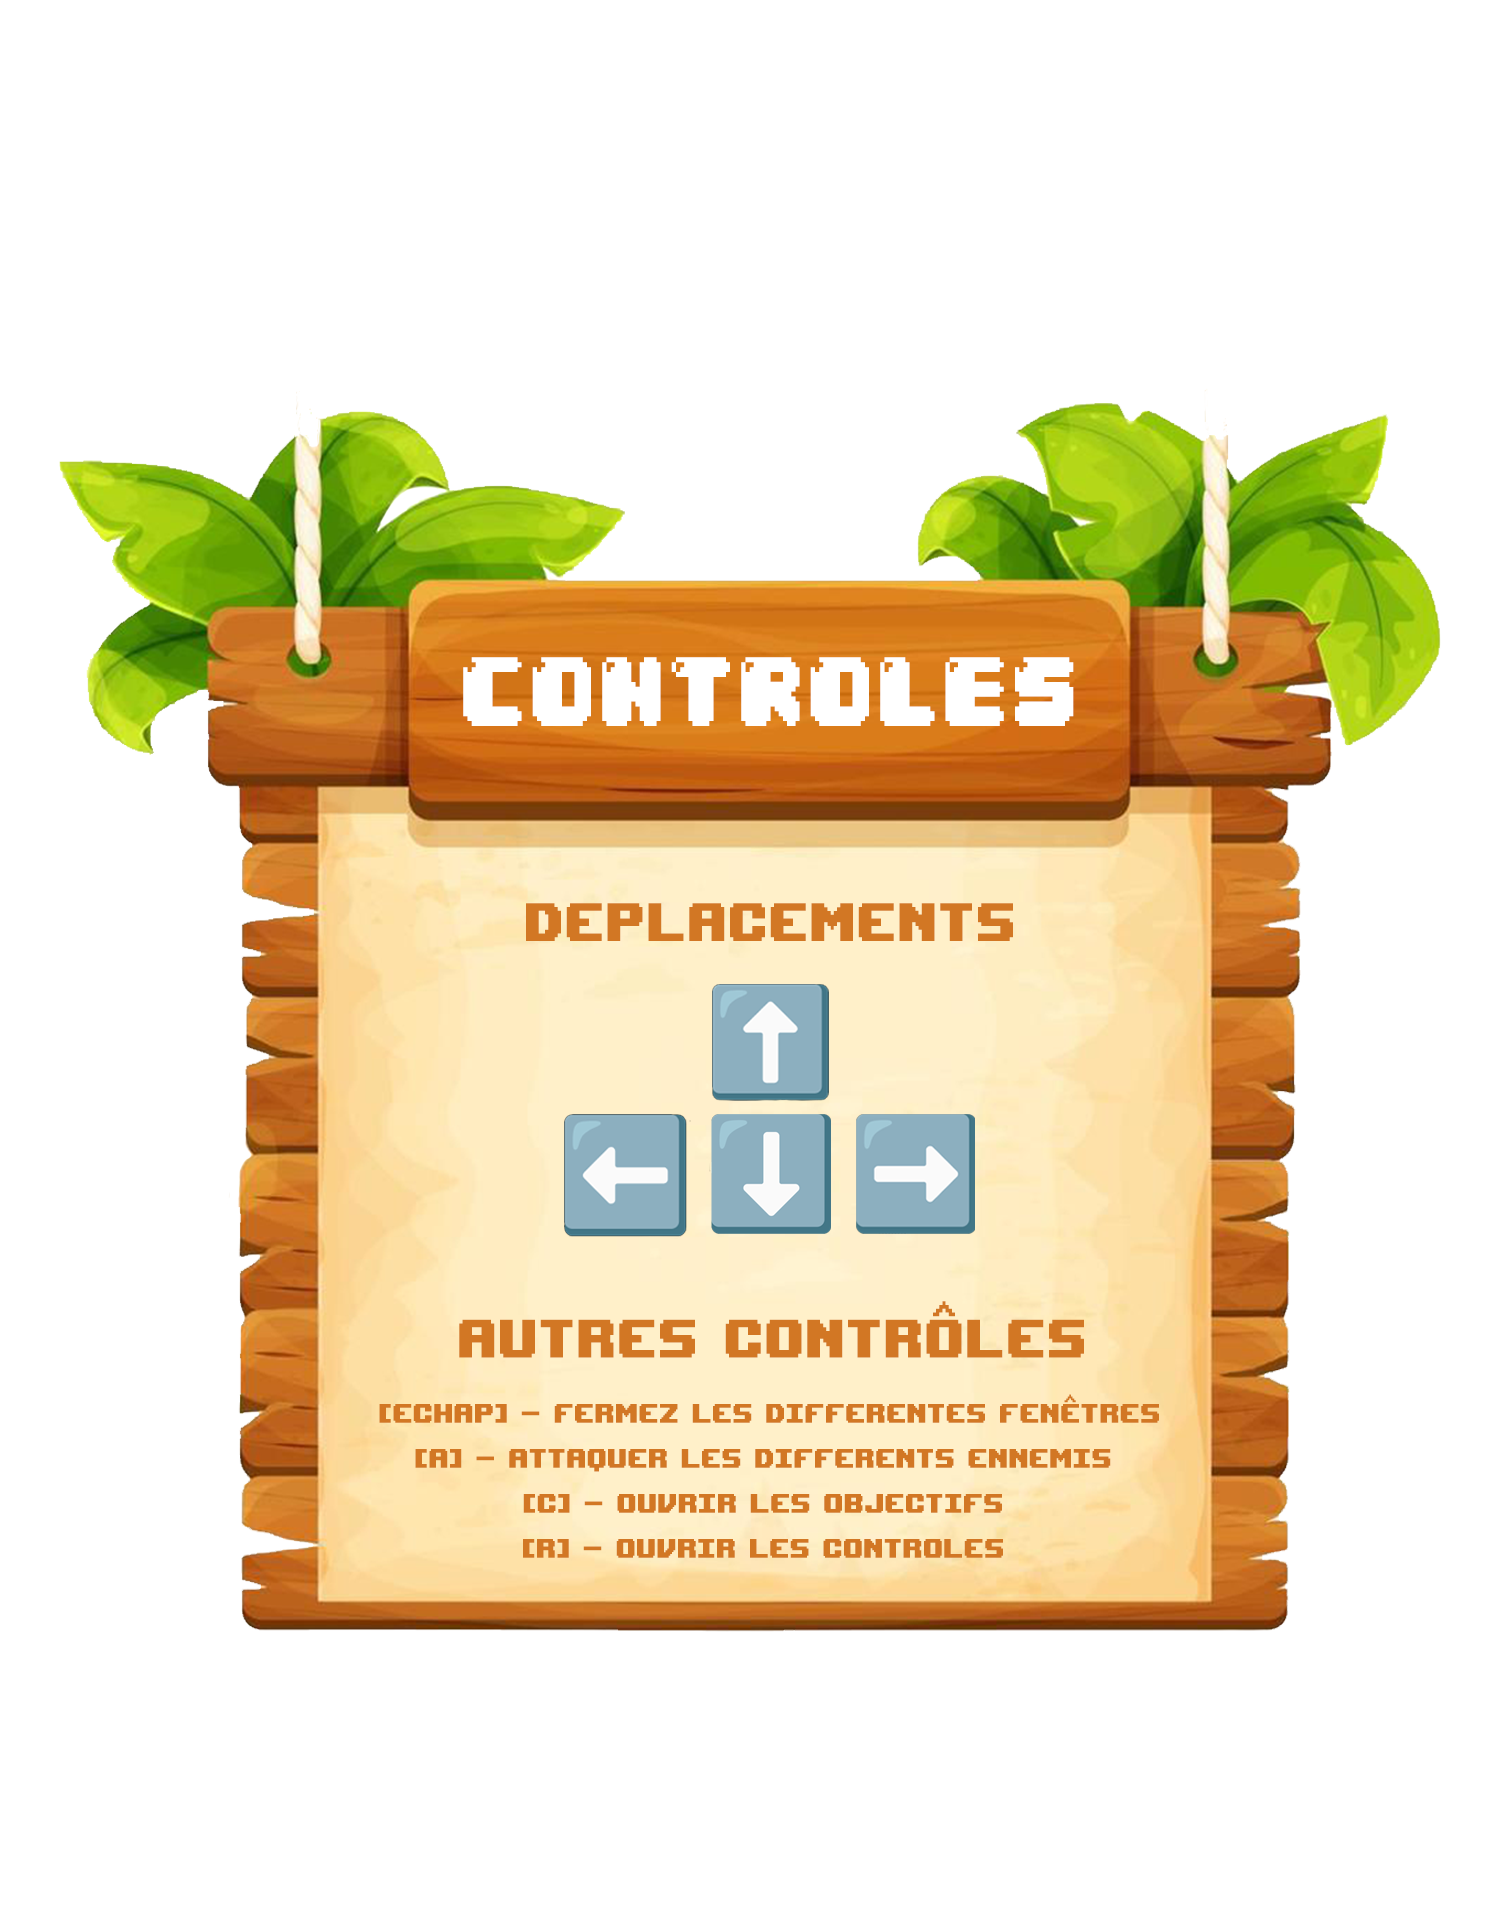
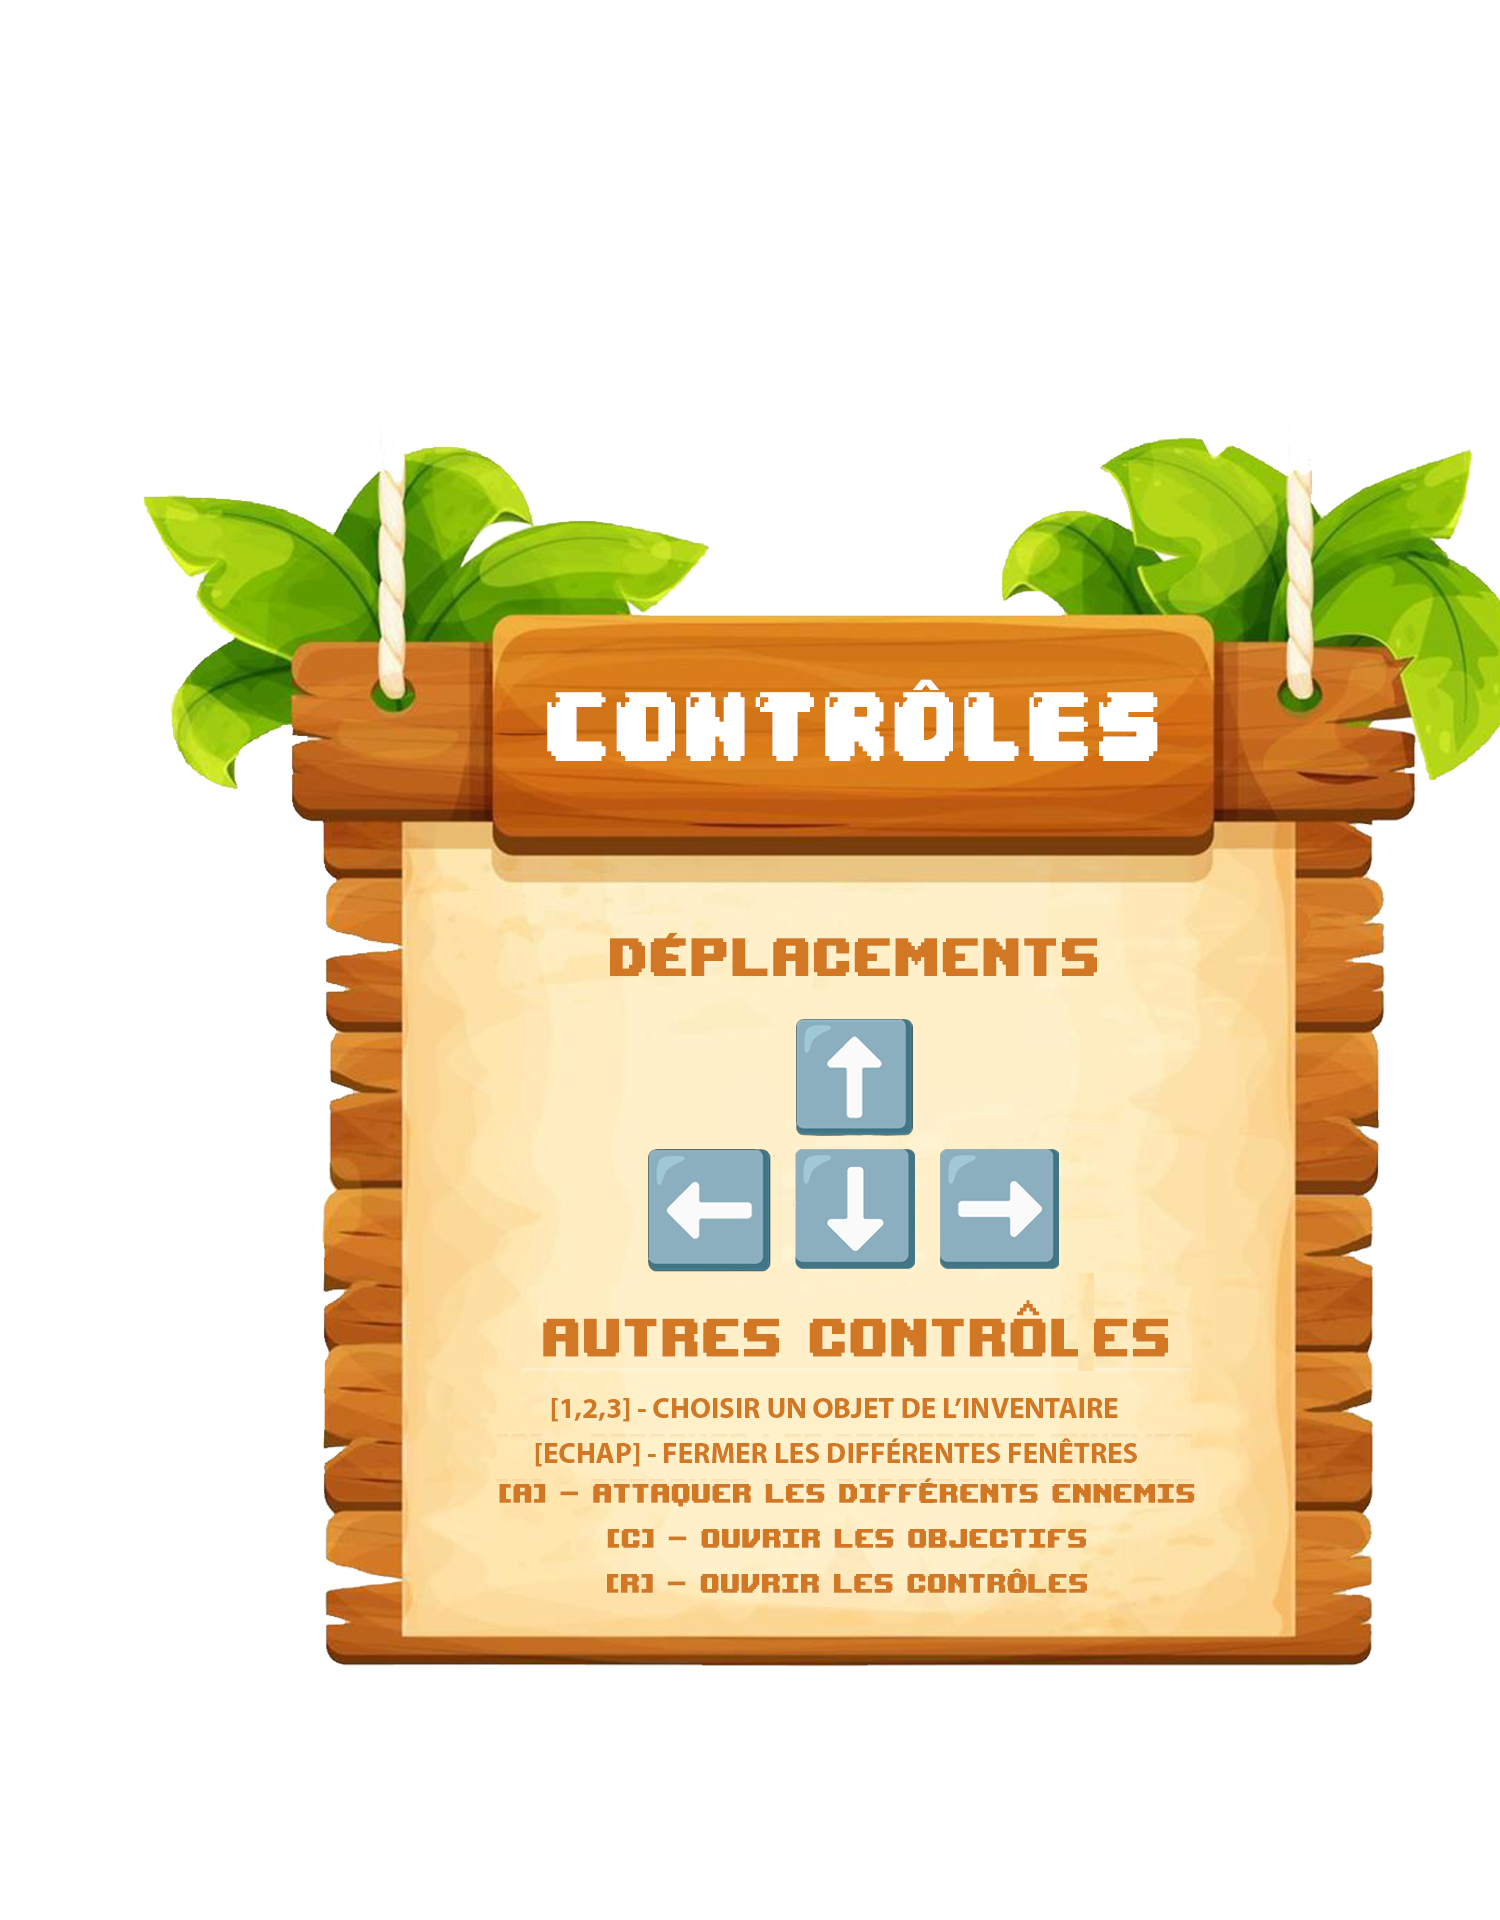
Modification de texte dans les images du jeu

diff --git a/index.html b/index.html
@@ -29,16 +29,8 @@
                             Cela est toujours gratifiant de voir la satisfaction d’un client lorsque son projet web prend forme.
                         </p>
                     </div>
-                        <div class="mb-5 mb-md-0">
-                            <!-- <a class="me-5 h5" href="CV-Ebrotie-MIAN.pdf">CV</a> -->
-                            <a href="https://www.linkedin.com/in/william-mian">
-                                <img src="Images/Icones/linkedin.png" style="width: 30px;">
-                            </a>
-                            <!-- <a href="mailto:ebrotie.mian1@gmail.com">
-                                <img src="Images/Icones/mail.png" style="width: 30px;">
-                            </a> -->
-                        </div>
-                    <h5 class="fw-bold mb-3 mt-md-5 mb-md-4">Technologies utilisées :</h5>
+                        
+                    <!-- <h5 class="fw-bold mb-3 mt-md-5 mb-md-4">Technologies utilisées :</h5>
                     <div class="">
                         <div class="row" style="row-gap: 10px;">
                             <div class="col-6 col-sm-3 col-md-6 col-lg-4">
@@ -71,15 +63,15 @@
                                     <img src="Images/Icones/jquery.png" width="25px" alt="Icône de jQuery">
                                     <span>jQuery</span>
                                 </div>
-                            </div>
+                            </div> -->
                             <!-- <div class="col-4">
                                 <div class="me-2">
                                     <img src="Images/Icones/react.png" width="25px" alt="Icône de React">
                                     <span>React</span>
                                 </div>
-                            </div> -->
+                            </div> 
                         </div>
-                    </div>
+                    </div>-->
                     <h5 class="fw-bold mb-3 mt-5 mb-md-4">Qualités :</h5>
                     <div class="row" style="row-gap: 1px;">
                         <div class="col-6 col-sm-4 col-md-6 col-lg-6">
@@ -94,6 +86,15 @@
                         <div class="col-6 col-sm-4 col-md-6 col-lg-6">
                             <p>Autonome</p>
                         </div>
+                    </div>
+                    <div class="my-5 mb-md-0">
+                        <!-- <a class="me-5 h5" href="CV-Ebrotie-MIAN.pdf">CV</a> -->
+                        <a href="https://www.linkedin.com/in/william-mian">
+                            <img src="Images/Icones/linkedin.png" style="width: 30px;">
+                        </a>
+                        <!-- <a href="mailto:ebrotie.mian1@gmail.com">
+                            <img src="Images/Icones/mail.png" style="width: 30px;">
+                        </a> -->
                     </div>
                     <div class="mb-3 mb-md-5">
                         <!-- <p class="d-inline h5">Formation précédente en alternance :</p>

diff --git a/Jeu/index.html b/Jeu/index.html
@@ -91,7 +91,7 @@
         <button id="start-game" onclick="disparaitre(); afficher();">Start Zeldo</button>
         <div id="action-buttons">
             <button id="attack-button" style="display: none;" onclick="afficherRegles();">Objectifs</button>
-            <button id="defend-button" style="display: none;" onclick="afficherControles();">Controles</button>
+            <button id="defend-button" style="display: none;" onclick="afficherControles();">Contrôles</button>
             <button id="use-item-button" style="display: none;">Inventaire</button>
         </div>
     </div>  
